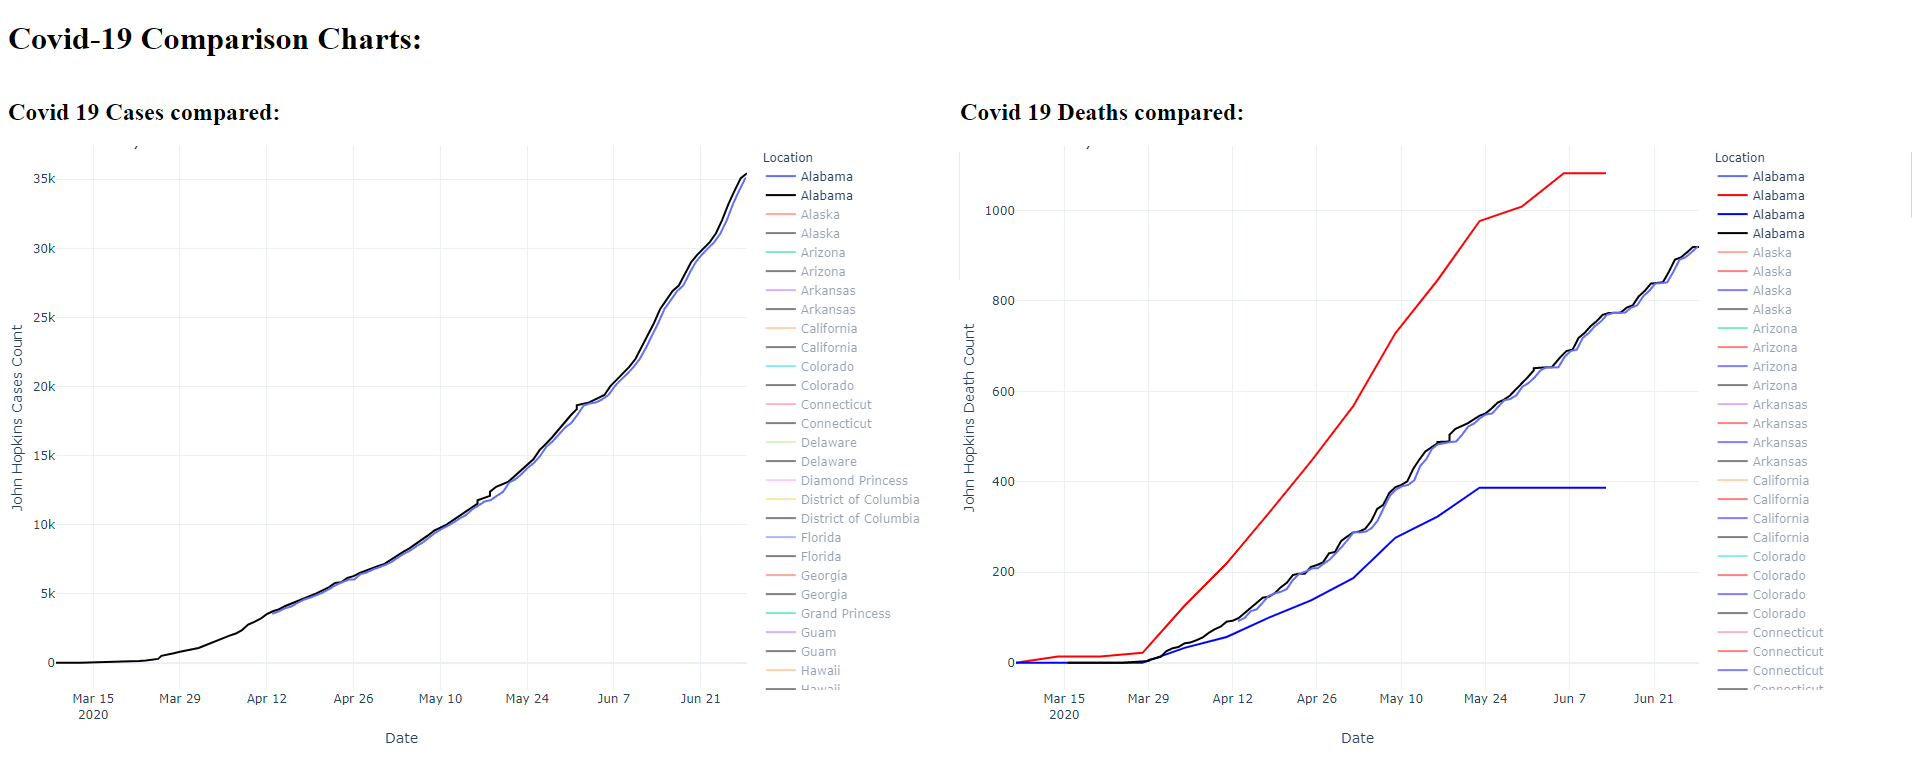
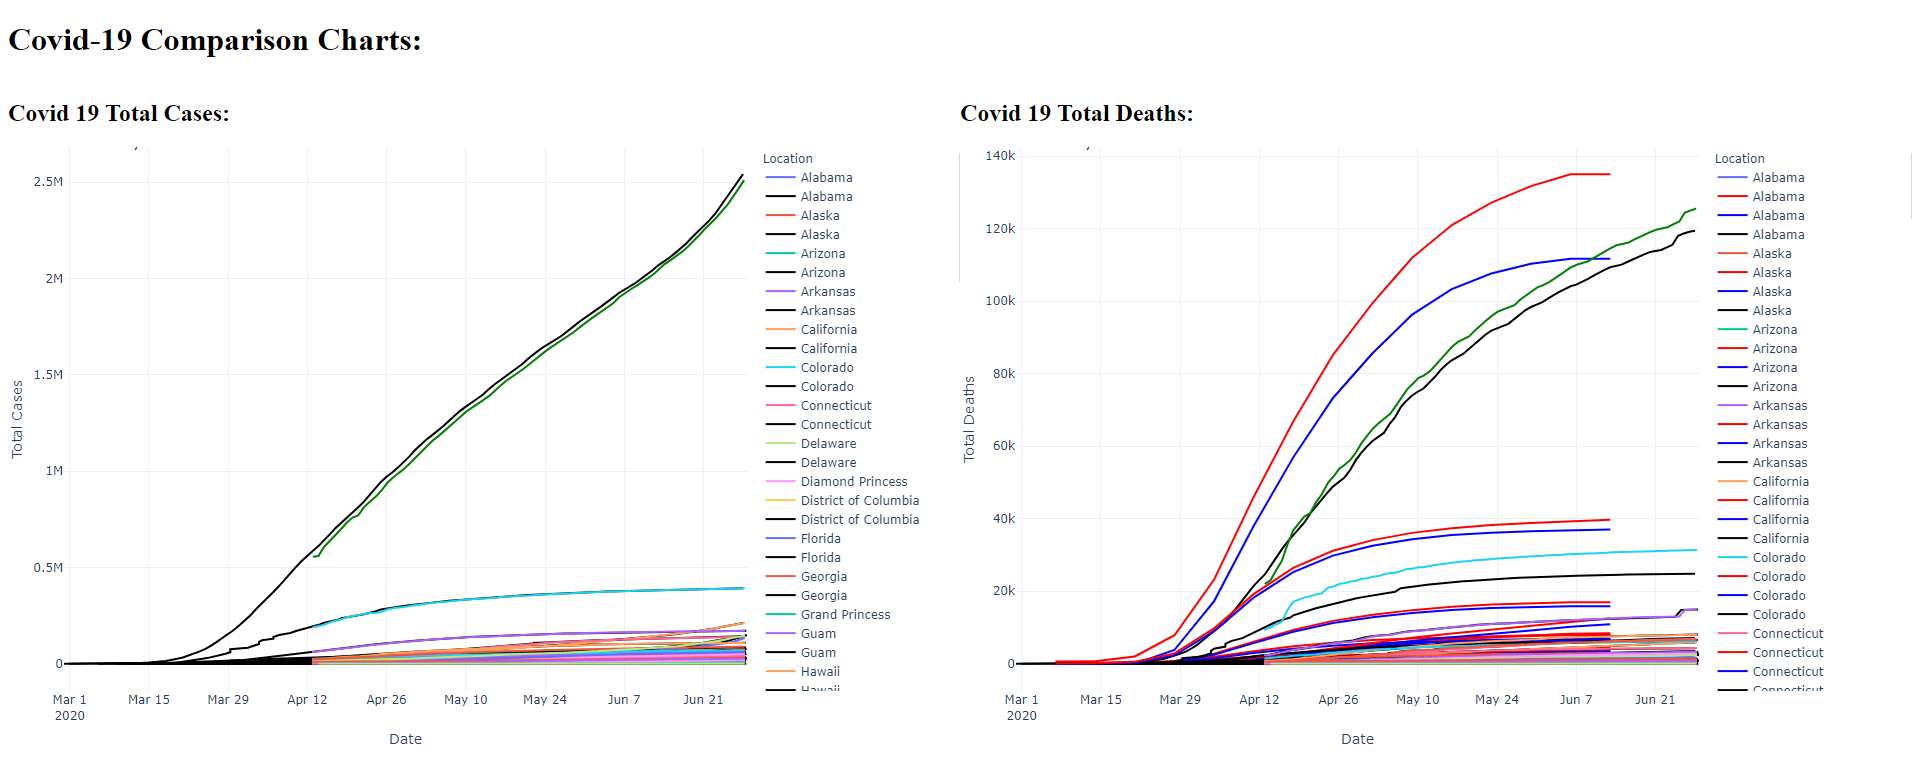
version 0.2 update
corrected titles for respectfulness.

diff --git a/main.py b/main.py
@@ -21,7 +21,7 @@ app = dash.Dash()
 
 app.layout = html.Div([
     html.Div(html.H1(children="Covid-19 Comparison Charts:")),
-    html.Div([html.H2("Covid 19 Cases compared:"),
+    html.Div([html.H2("Covid 19 Total Cases:"),
         html.Div(
             dcc.Graph(id="Cases",
                       figure=casesFig)
@@ -31,7 +31,7 @@ app.layout = html.Div([
         'width': '50%',
         'float': 'left'
     }),
-    html.Div([html.H2("Covid 19 Deaths compared:"),
+    html.Div([html.H2("Covid 19 Total Deaths:"),
         html.Div(
             dcc.Graph(id="Deaths",
                       figure=deathFig)
